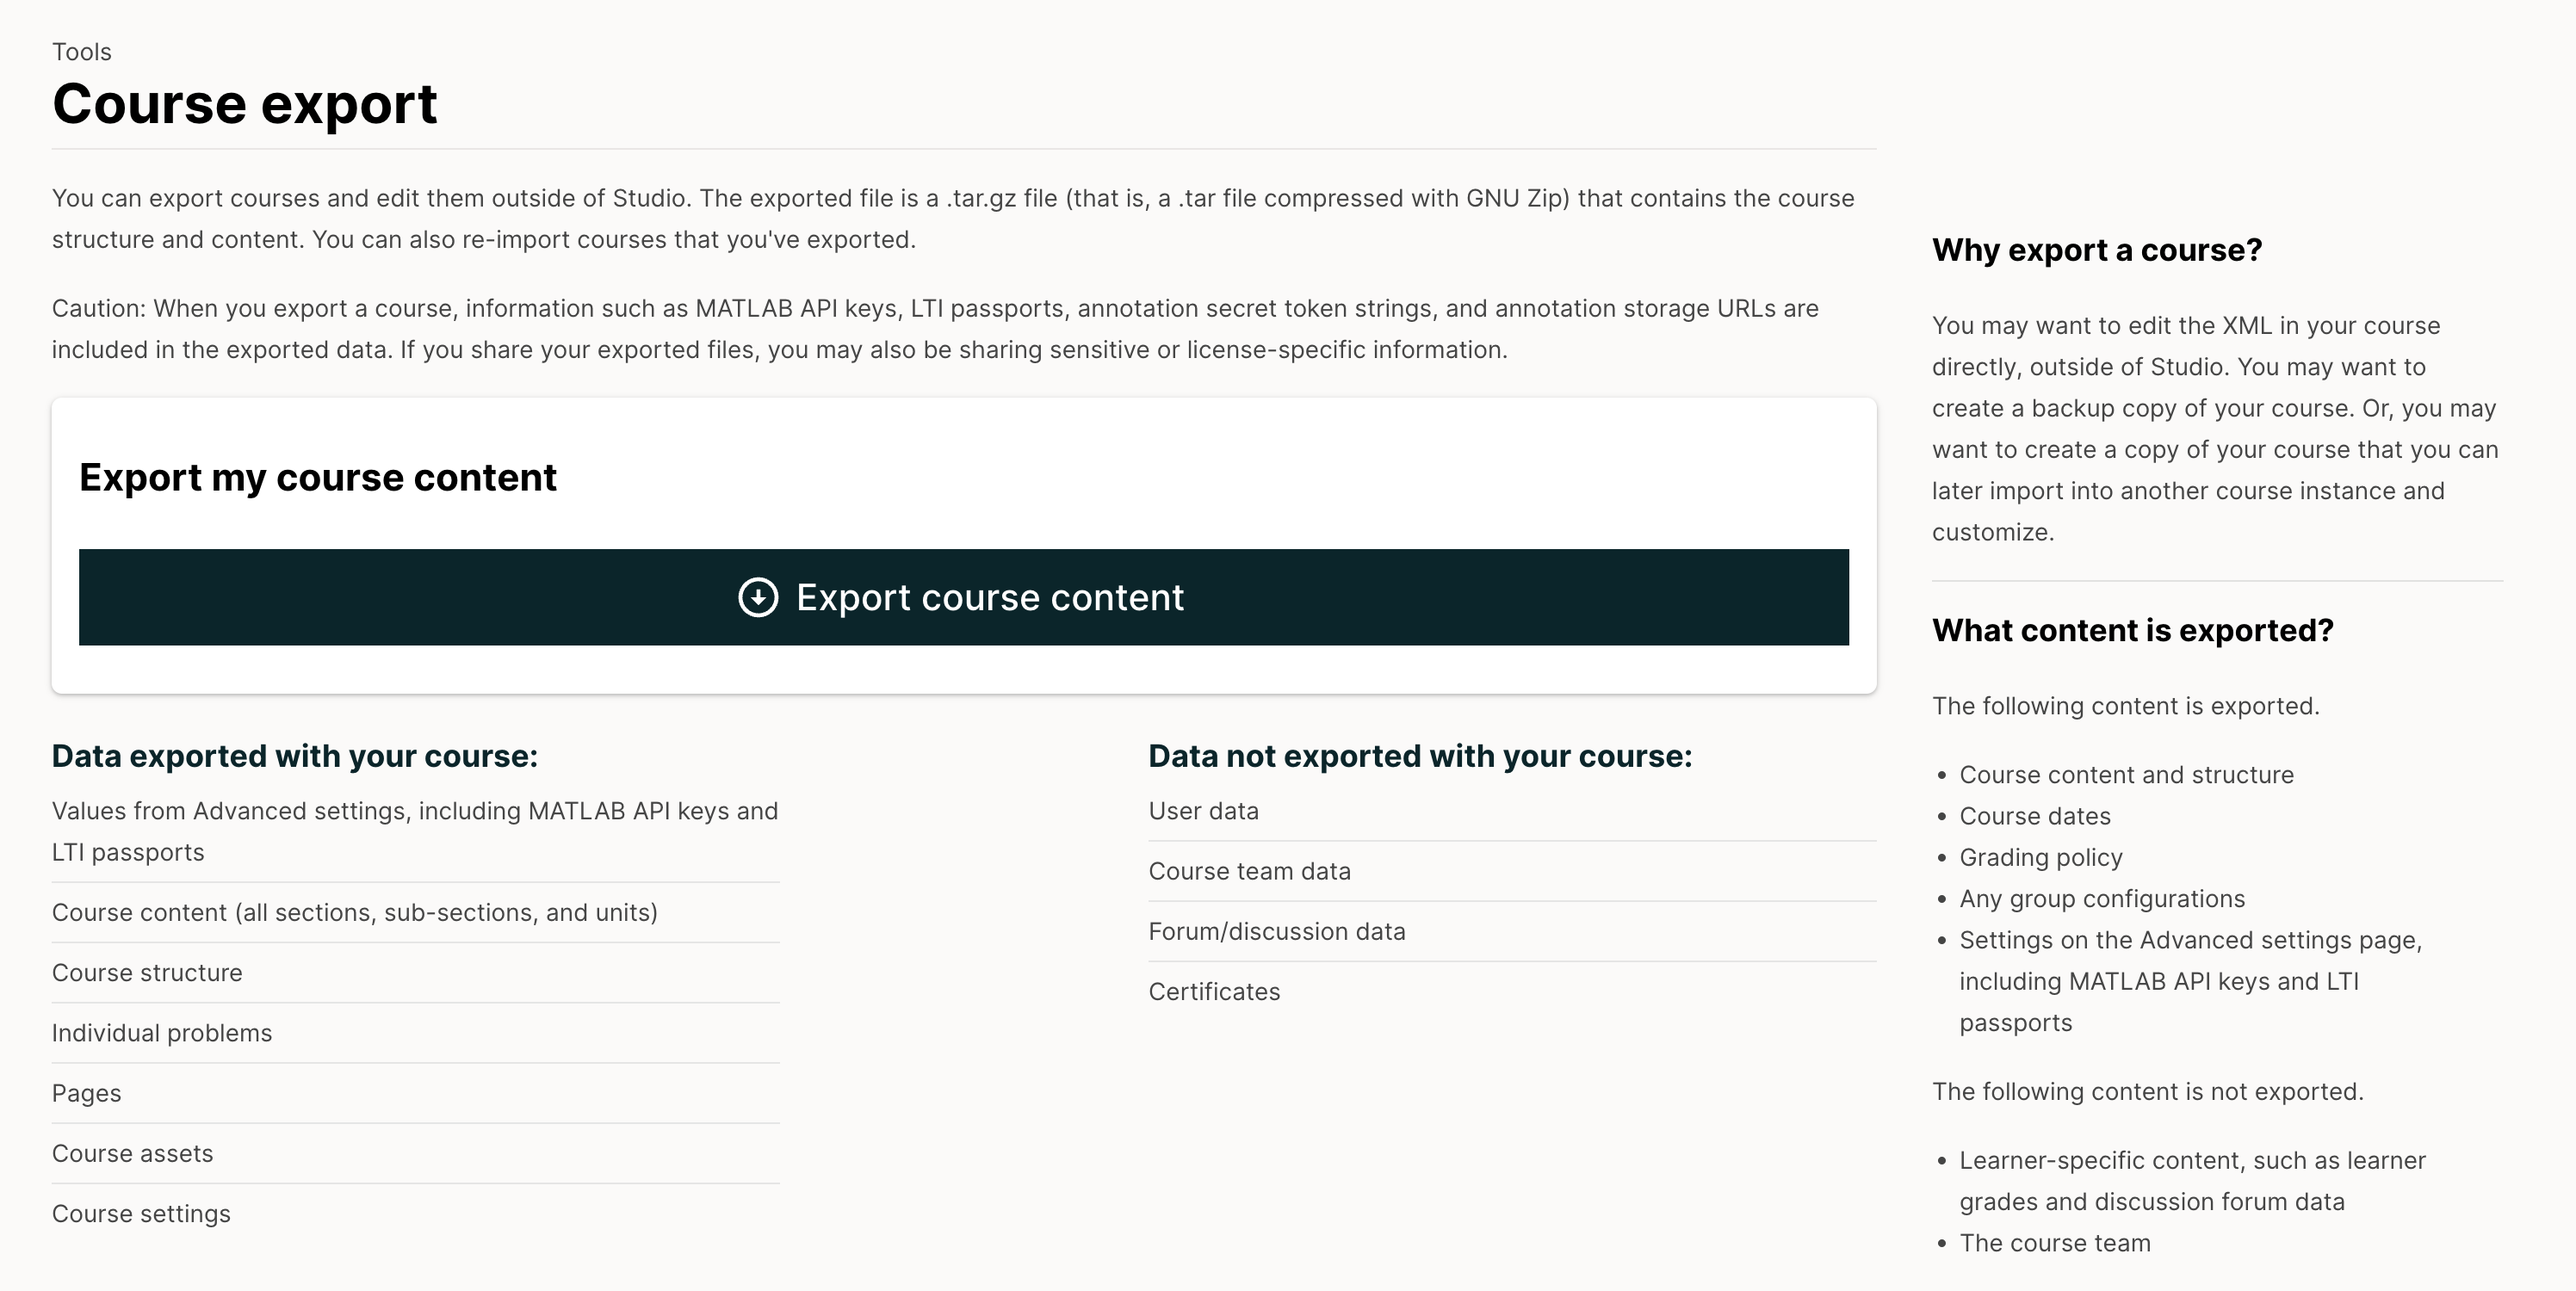
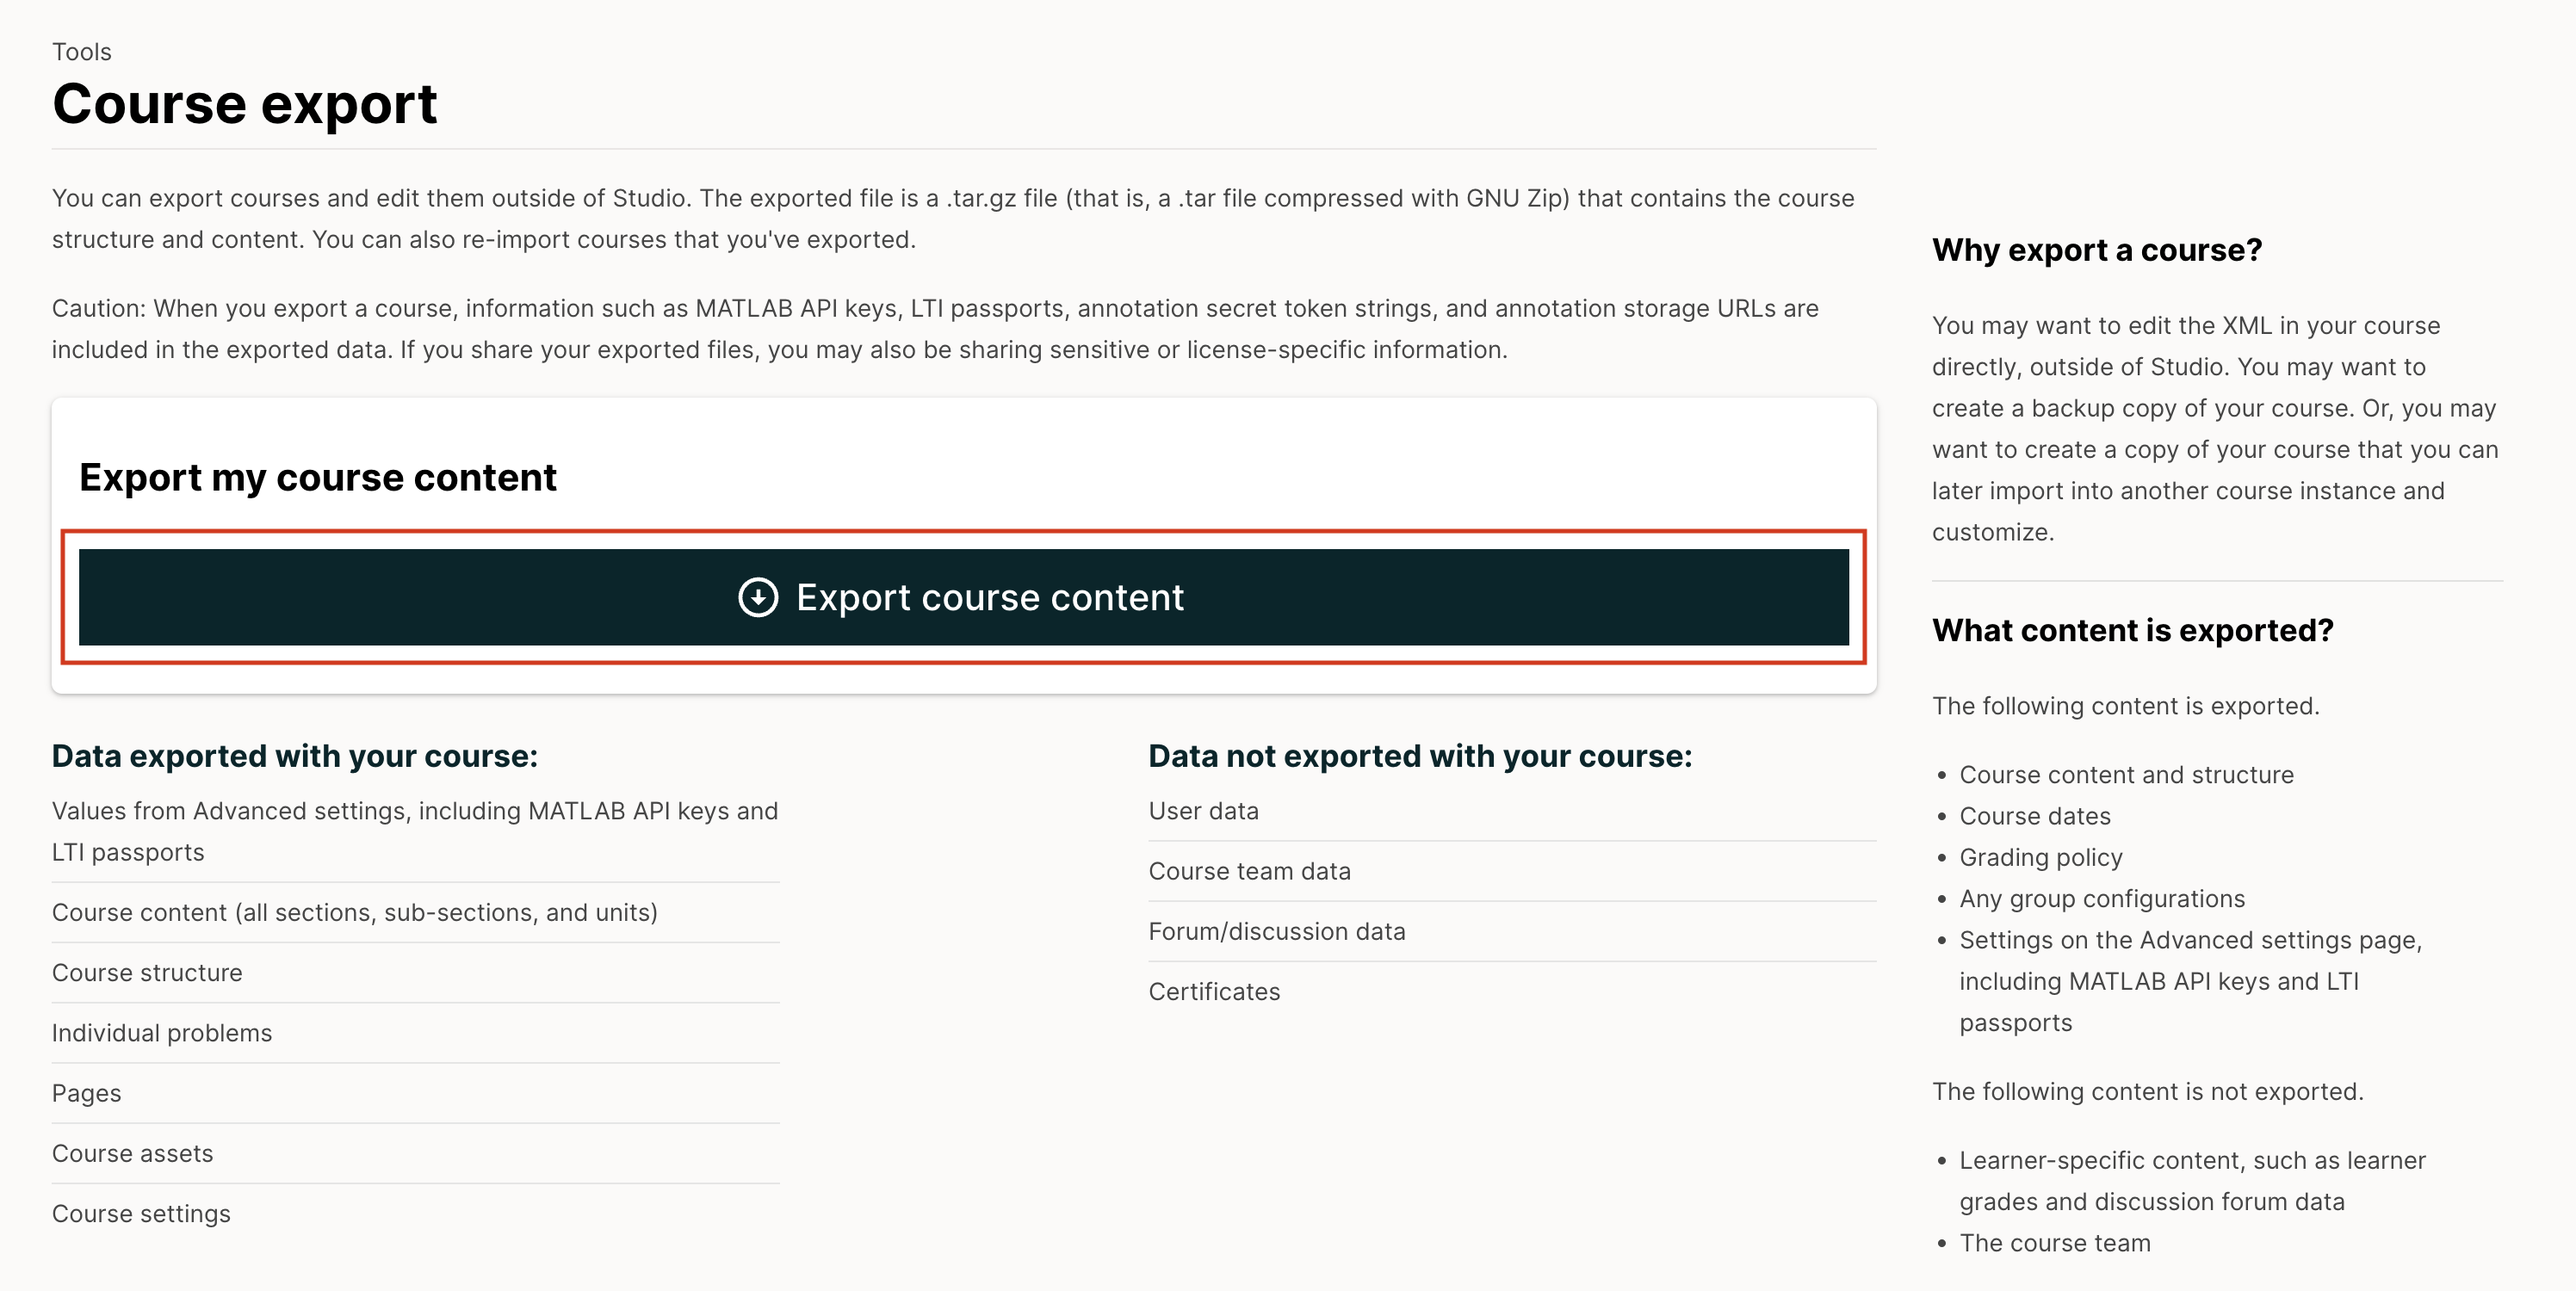
Update Export Course instructions with instructions to download the export.
Resolves #954

Changed region(s): [[0.0311, 0.4907, 0.7149, 0.5213], [0.0311, 0.3987, 0.7149, 0.4293]]

diff --git a/source/educators/how-tos/releasing-course/export_course.rst b/source/educators/how-tos/releasing-course/export_course.rst
@@ -55,16 +55,26 @@ The following data is not exported with your course.
 
 To export your course, follow these steps.
 
-#. From the **Tools** menu, select **Export**.
+#. From the **Tools** menu in the header, select **Export**.
+
+   .. image:: /_images/educator_how_tos/tools_menu_export_course.png
+    :width: 600
+    :alt: Selecting the "Export Course" option from the Tools menu in the page header.
+
 #. Select **Export Course Content**.
 
-When the export completes you can then access the ``.tar.gz`` file on your
-computer.
+   .. image:: /_images/educator_how_tos/course_export_page.png
+    :width: 600
+    :alt: an image of the Export page in which you can export courses and edit them outside of Studio.
 
-.. image:: /_images/educator_how_tos/course_export_page.png
- :width: 600
- :alt: an image of the Export page in which you can export courses and
-  edit them outside of Studio.
+#. When the export is complete, click **Download Exported Course**.
+
+   .. image:: /_images/educator_how_tos/download_exported_course.png
+    :width: 600
+    :alt: an image of the Export page when the export is complete, showing the Download Exported Course button
+
+When the export completes and is downloaded, you can then access the ``.tar.gz`` file on your
+computer.
 
 .. seealso::
  
@@ -80,5 +90,7 @@ computer.
 +--------------+-------------------------------+----------------+-----------------------------------------------------------------+
 | Review Date  | Working Group Reviewer        |   Release      |Test situation                                                   |
 +--------------+-------------------------------+----------------+-----------------------------------------------------------------+
-| 03/07/2025   | Docs WG                       | Sumac          | `Fail <https://github.com/openedx/docs.openedx.org/issues/954>`_|
+| 2025-04-13   | sarina                        | Sumac          | Pass                                                            |
++--------------+-------------------------------+----------------+-----------------------------------------------------------------+
+| 2025-03-07   | Docs WG                       | Sumac          | `Fail <https://github.com/openedx/docs.openedx.org/issues/954>`_|
 +--------------+-------------------------------+----------------+-----------------------------------------------------------------+
